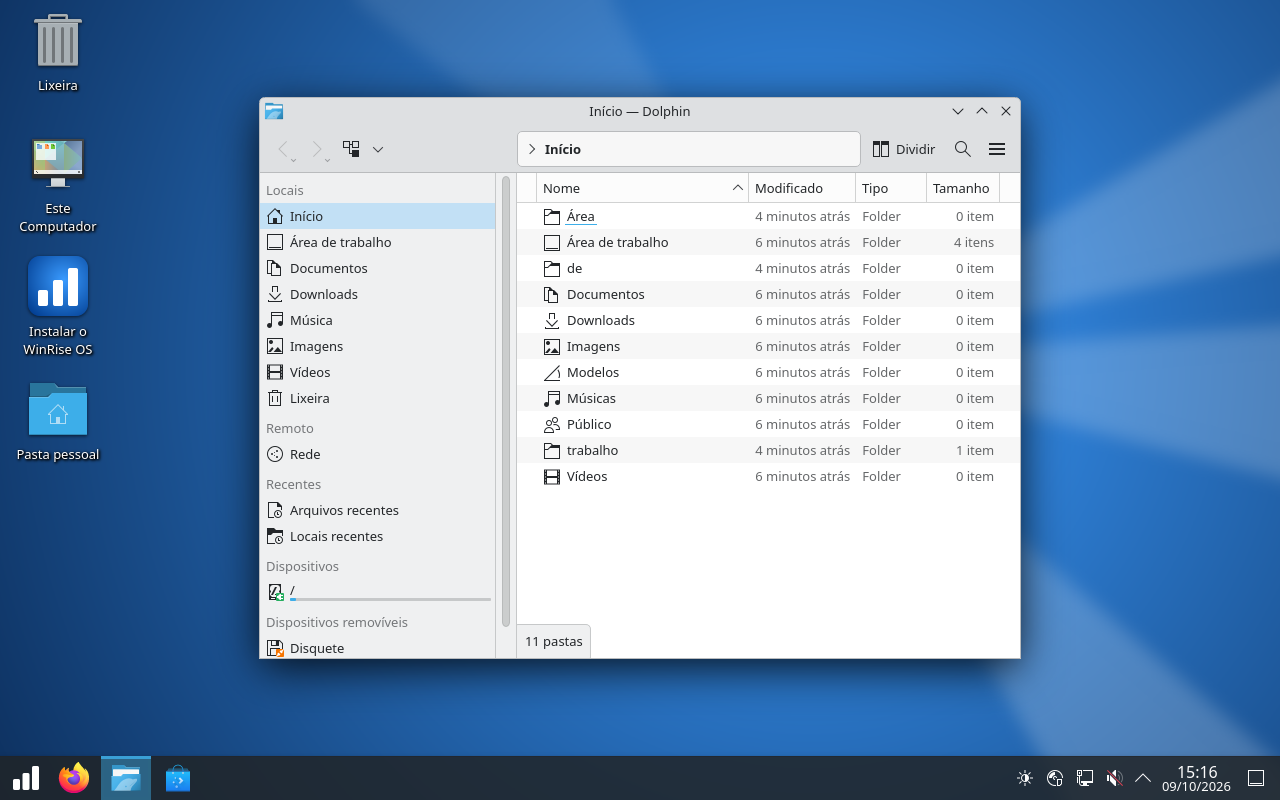
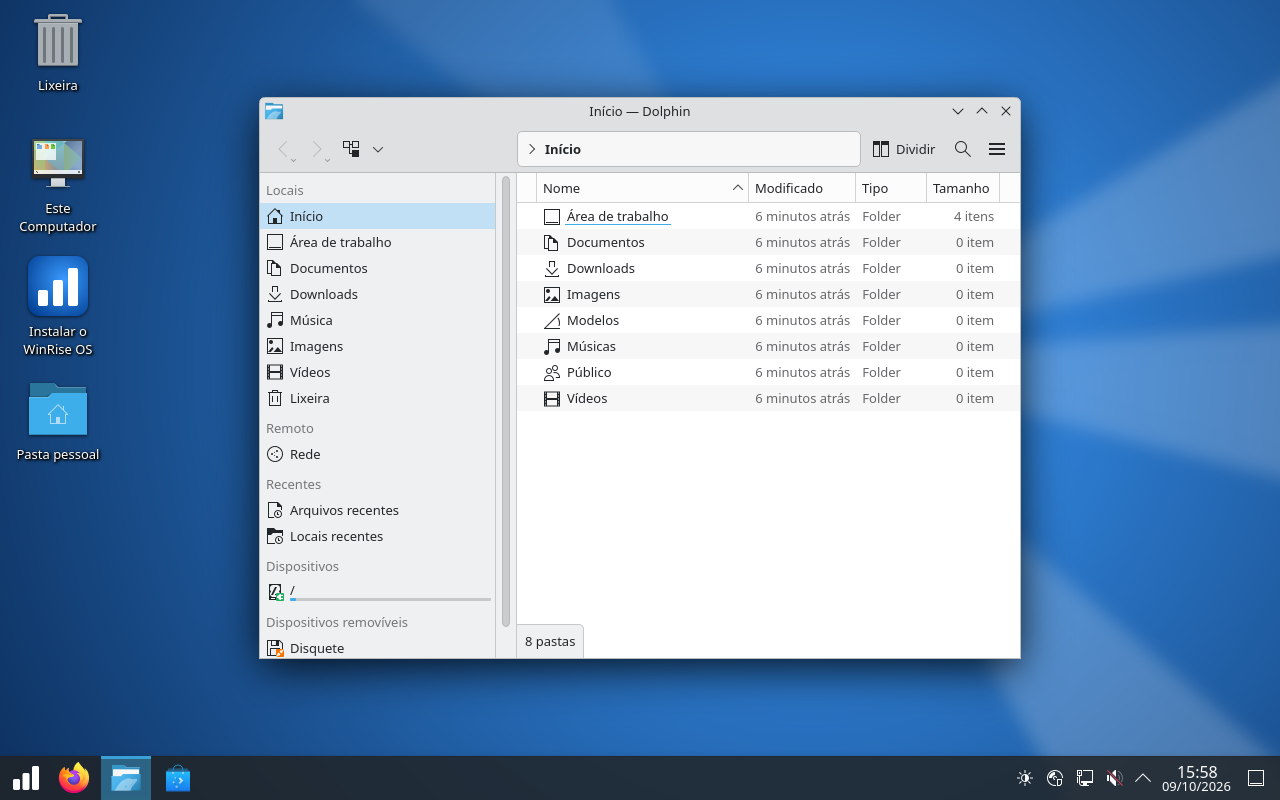
docs: capturas da ISO corrigida (Dolphin sem pastas quebradas, menu de boot WinRise)

diff --git a/README.md b/README.md
@@ -9,6 +9,10 @@ duplo clique e os mesmos atalhos de teclado.
 
 ![Área de trabalho do WinRise OS](docs/screenshot.png)
 
+| Menu Iniciar | Explorador de arquivos (Dolphin) | Este Computador |
+|---|---|---|
+| ![Menu Iniciar](docs/winrise-startmenu.png) | ![Dolphin](docs/winrise-dolphin.png) | ![Este Computador](docs/winrise-este-computador.png) |
+
 ## Filosofia
 
 - **Visual do Windows 10**: barra de tarefas escura e única embaixo, botão Iniciar à esquerda,
